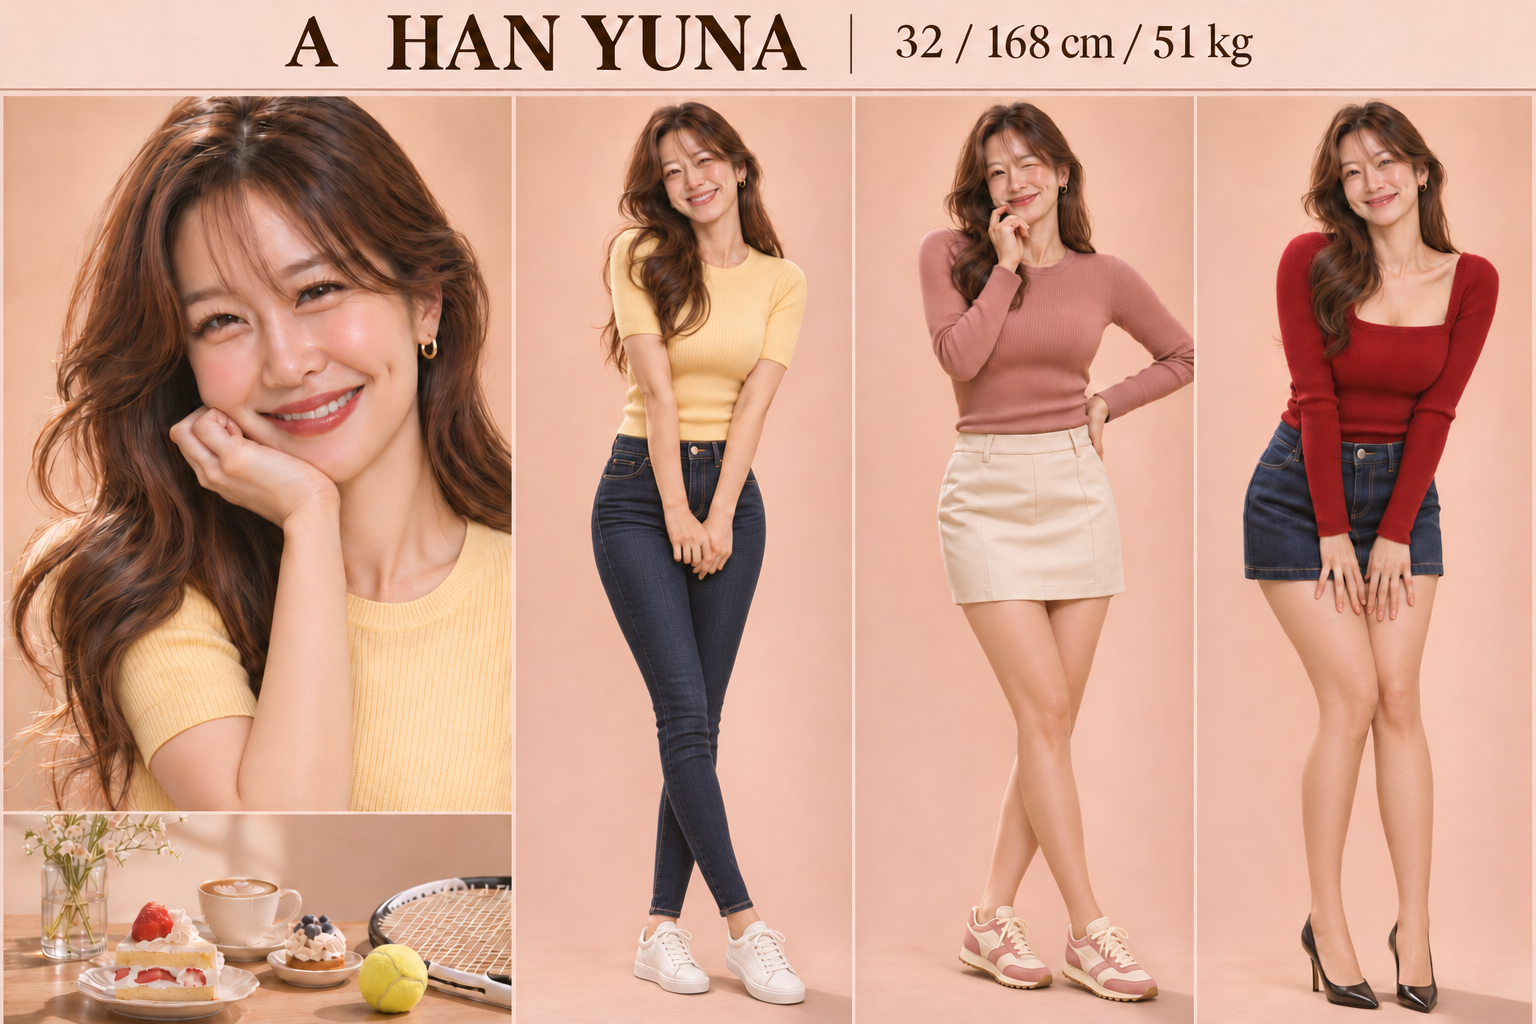
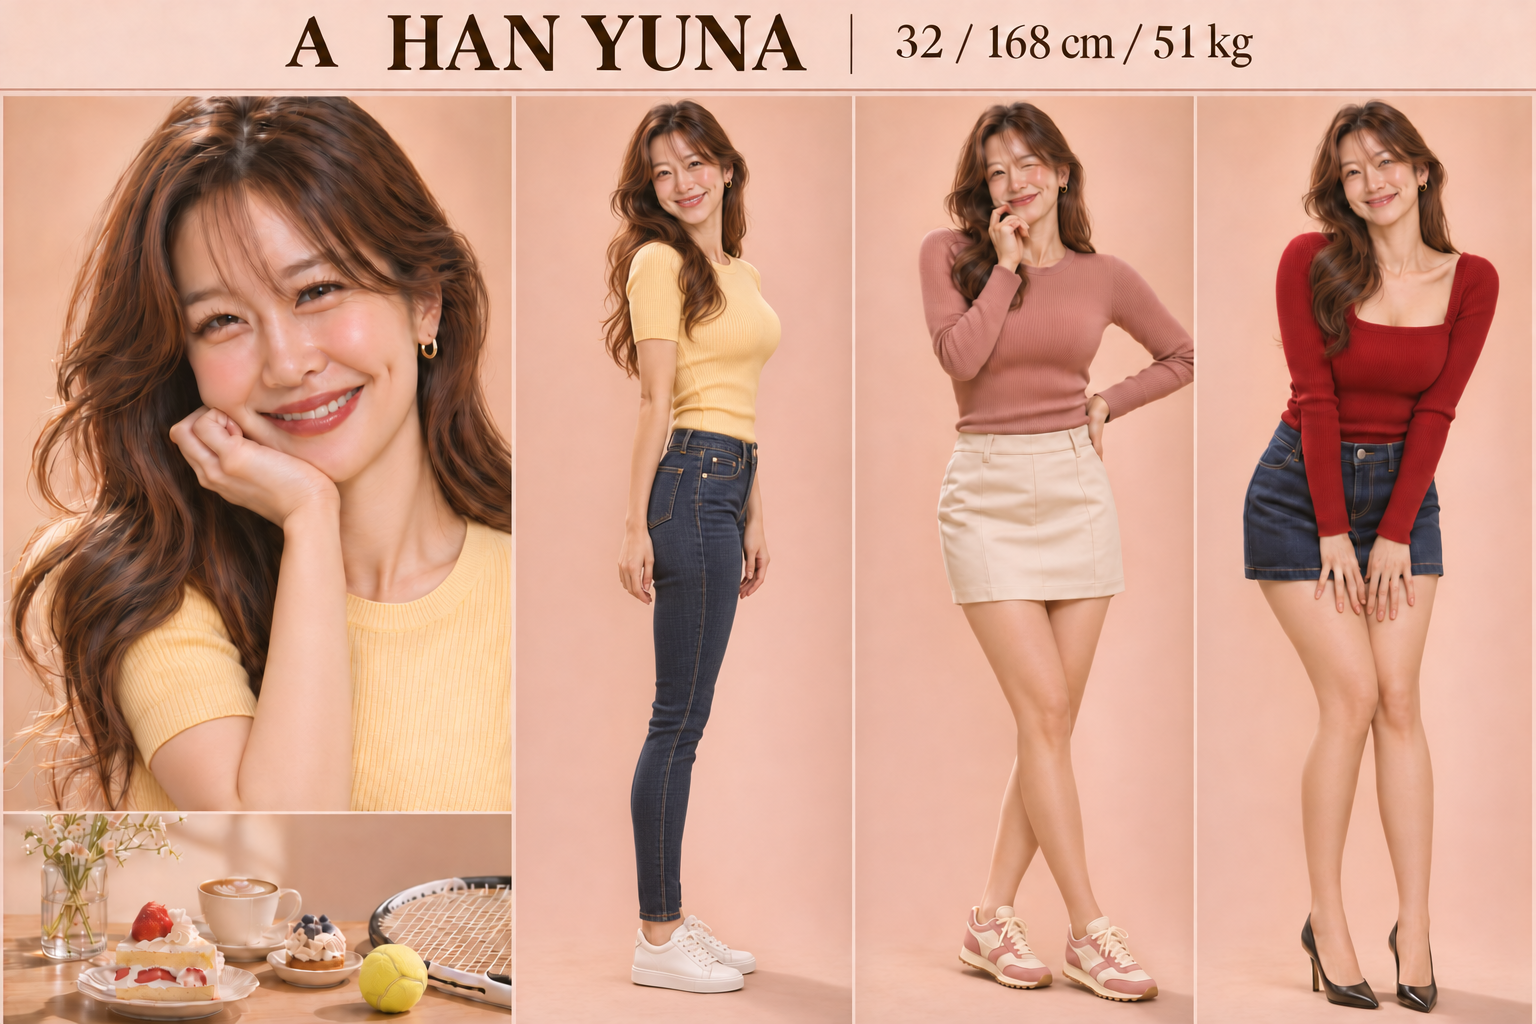
Add selectable Han Yuna indoor looks and denim posing

diff --git a/studio.html b/studio.html
@@ -61,6 +61,8 @@ dialog::backdrop{background:#252a23ba}
 .lookbook{margin-top:7px}
 .lookbook summary{cursor:pointer;width:max-content}
 .lookbook img{display:block;width:100%;max-height:55vh;object-fit:contain;margin-top:8px;border-radius:7px}
+#footwearField{margin-top:9px}
+#footwearField[hidden]{display:none}
 .cover-grid{display:grid;grid-template-columns:minmax(0,1fr) minmax(0,1fr);gap:16px;margin-top:12px}
 .cover-stage{display:grid;place-items:center;background:#292e28;border-radius:10px;padding:10px}
 #coverCanvas{display:block;width:min(100%,31.5vh,270px);height:auto;touch-action:none;cursor:move}
@@ -87,7 +89,14 @@ dialog::backdrop{background:#252a23ba}
         <summary class="plain">캐릭터 룩북 보기</summary>
         <img id="lookbookImage" src="characters/A.png" alt="한유나 얼굴과 전신 착장" loading="lazy">
         <a id="lookbookLink" class="plain" href="characters/A.png">원본 이미지 열기 ↗</a>
+        <details id="indoorLookbook" class="lookbook">
+          <summary class="plain">맨발·양말 룩북</summary>
+          <img src="characters/A-indoor.png" alt="한유나의 맨발과 흰색 발목 양말 전신 착장" loading="lazy">
+        </details>
       </details>
+      <label id="footwearField">한유나 신발 착장
+        <select id="footwear"><option value="">흰색 스니커즈</option><option value="barefoot">맨발</option><option value="socks">흰색 발목 양말만</option></select>
+      </label>
       <div class="divider"></div>
       <div class="section"><h2><span class="index">02</span>상품과 영상 설정</h2><span class="eyebrow">9:16 · 720P</span></div>
       <div class="fields">
@@ -212,6 +221,8 @@ document.querySelectorAll(".host").forEach(button => button.onclick = () => {
   get("lookbookImage").src = imagePath;
   get("lookbookImage").alt = button.querySelector("strong").textContent + " 얼굴과 전신 착장";
   get("lookbookLink").href = imagePath;
+  get("indoorLookbook").hidden = selected !== "A";
+  get("footwearField").hidden = selected !== "A";
   document.querySelectorAll(".host").forEach(item => item.setAttribute("aria-pressed", item === button));
 });
 const cover = get("coverCanvas");
@@ -370,7 +381,8 @@ get("exchangeRate").oninput = updateCosts;
 get("monthlyCount").oninput = updateCosts;
 const data = () => ({id:"studio-product", host:selected, product:get("product").value.trim(),
   facts:get("facts").value.trim(), affiliate_url:get("link").value.trim(),
-  seconds:Number(get("seconds").value), veo:get("tier").value});
+  seconds:Number(get("seconds").value), veo:get("tier").value,
+  ...(selected === "A" && get("footwear").value ? {footwear:get("footwear").value} : {})});
 function validate() {
   if (!get("composer").reportValidity()) return false;
   if (!/^https:\/\/link\.coupang\.com\/[a-zA-Z0-9][^\s]*$/i.test(get("link").value.trim())) {

diff --git a/shorts.py b/shorts.py
@@ -70,6 +70,19 @@ VEO = {
     "fast": ("veo-3.1-fast-generate-preview", 0.10),
     "standard": ("veo-3.1-generate-preview", 0.40),
 }
+INDOOR_LOOKS = {"barefoot": "barefoot", "socks": "plain white ankle socks without shoes"}
+
+
+def host_image(host, footwear=None):
+    name = f"{host}-{footwear}" if footwear else host
+    return DATA_ROOT / "hosts" / f"{name}.png"
+
+
+def check_footwear(host, footwear):
+    if footwear is not None and (host != "A" or footwear not in INDOOR_LOOKS):
+        raise ValueError("맨발과 양말 착장은 한유나에서만 선택할 수 있습니다.")
+
+
 DISCLOSURE = "이 포스팅은 쿠팡 파트너스 활동의 일환으로, 이에 따른 일정액의 수수료를 제공받습니다."
 
 
@@ -133,22 +146,34 @@ class Gemini:
             raise ValueError(f"{model}: 사용 가능한 생성 결과가 없습니다.")
         return parts
 
-    def portrait(self, host):
+    def portrait(self, host, footwear=None):
         profile = HOSTS[host]
         reference = ROOT / "characters" / f"{host}.png"
+        look = profile.look
+        outfit = "first full-body outfit"
+        stance = (
+            "Pose her at a natural three-quarter side angle, face turned toward camera, "
+            "so the jeans' waist-to-hip silhouette is visible in the full-length frame. "
+            if host == "A" else ""
+        )
+        if footwear:
+            reference = ROOT / "characters" / "A-indoor.png"
+            look = profile.look.replace("white low-top leather court sneakers", INDOOR_LOOKS[footwear])
+            outfit = "left full-body outfit" if footwear == "barefoot" else "right full-body outfit"
         art_direction = ""
         if reference.is_file():
             art_direction = (
                 "The attached sheet is the identity reference. Preserve the woman's face, hair, body and "
-                "first full-body outfit. Show a single live-action scene without the sheet layout or text. "
+                f"{outfit}. Show a single live-action scene without the sheet layout or text. "
             )
         parts = self.content("gemini-3.1-flash-image", (
             art_direction +
             f"Photorealistic vertical Korean boutique fashion reel. Foreground: fictional adult Korean woman "
-            f"{profile.name}, {profile.look}, holding a small orange styling pointer. "
+            f"{profile.name}, {look}, holding a small orange styling pointer. "
             "Beside her is a handsome Korean man age 55 in a plain cream mock neck and charcoal trousers. "
             "She introduces middle-aged men's styling. Eye-level full-length shot, warm wood showroom, soft lighting. "
-            "Keep both faces clearly visible and include the woman's shoes. Candid editorial look, no text or logos."
+            "Keep both faces clearly visible and frame the woman head to toe. "
+            f"{stance}Candid editorial look, no text or logos."
         ), {"responseModalities": ["IMAGE"], "responseFormat": {
             "image": {"aspectRatio": "9:16", "imageSize": "1K"}
         }}, version="v1", reference=reference if reference.is_file() else None)
@@ -265,6 +290,8 @@ def normalize(job, base, index):
     if not re.fullmatch(r"[a-zA-Z0-9][a-zA-Z0-9_-]{0,47}", key):
         raise ValueError("id는 영문·숫자로 시작하고 영문·숫자·밑줄·하이픈을 사용하세요.")
     host = job.get("host", "ABC"[index % 3])
+    footwear = job.get("footwear")
+    check_footwear(host, footwear)
     seconds = job.get("seconds", 15)
     tier = job.get("veo", "lite")
     if host not in HOSTS or type(seconds) is not int or not 10 <= seconds <= 20 or tier not in VEO:
@@ -284,6 +311,7 @@ def normalize(job, base, index):
         "id": key, "host": host, "seconds": seconds, "veo": tier, "affiliate_url": link,
         "images": images, "product": clean(job["product"], 55), "facts": clean(job["facts"], 500),
         "script": job.get("script"),
+        **({"footwear": footwear} if footwear else {}),
     }
 
 
@@ -396,7 +424,7 @@ def deliver(directory, job, script, demo):
 def produce(job, client, demo, reference):
     out = DATA_ROOT / "output" / ("preview" if demo else "jobs") / job["id"]
     out.mkdir(parents=True, exist_ok=True)
-    portrait = DATA_ROOT / "hosts" / f"{job['host']}.png"
+    portrait = host_image(job["host"], job.get("footwear"))
     files = job["images"] + [reference if demo else portrait]
     digests = []
     for file in files:
@@ -463,6 +491,7 @@ def main():
     commands = parser.add_subparsers(dest="command", required=True)
     hosts = commands.add_parser("hosts", help="고정 호스트 이미지 최초 생성")
     hosts.add_argument("host", choices=["A", "B", "C", "all"], default="all", nargs="?")
+    hosts.add_argument("--footwear", choices=INDOOR_LOOKS)
     build = commands.add_parser("build", help="상품 목록을 영상으로 제작")
     build.add_argument("manifest", type=Path)
     build.add_argument("--preview", type=Path, metavar="REFERENCE_MP4", help="참고 영상으로 무료 편집 미리보기")
@@ -471,18 +500,21 @@ def main():
     if not all(shutil.which(tool) for tool in ("ffmpeg", "ffprobe")):
         raise ValueError("FFmpeg와 FFprobe를 PATH에 추가하세요.")
     if args.command == "hosts":
+        check_footwear(args.host, args.footwear)
         folder = DATA_ROOT / "hosts"
         folder.mkdir(exist_ok=True)
         selected = HOSTS if args.host == "all" else [args.host]
-        missing = [host for host in selected if not (folder / f"{host}.png").exists()]
+        missing = [host for host in selected if not host_image(host, args.footwear).exists()]
         if missing:
             client = Gemini()
             for host in missing:
-                source = folder / f"{host}.source"
+                target = host_image(host, args.footwear)
+                source = target.with_suffix(".source")
+                temp = target.with_suffix(".tmp.png")
                 if not source.exists():
-                    atomic(source, client.portrait(host))
-                run_ffmpeg(folder, "-i", source.name, "-frames:v", 1, f"{host}.tmp.png")
-                (folder / f"{host}.tmp.png").replace(folder / f"{host}.png")
+                    atomic(source, client.portrait(host, args.footwear))
+                run_ffmpeg(folder, "-i", source.name, "-frames:v", 1, temp.name)
+                temp.replace(target)
                 source.unlink()
                 print(f"호스트 {host} 준비 완료")
         else:
@@ -510,8 +542,10 @@ def main():
         for job in jobs:
             if job["affiliate_url"] == "https://link.coupang.com/REPLACE-ME":
                 raise ValueError(f"{job['id']}: 예제 링크를 발급받은 링크로 교체하세요.")
-            if not (DATA_ROOT / "hosts" / f"{job['host']}.png").is_file():
-                raise ValueError(f"호스트 {job['host']} 이미지가 필요합니다. python shorts.py hosts {job['host']}")
+            footwear = job.get("footwear")
+            if not host_image(job["host"], footwear).is_file():
+                flag = f" --footwear {footwear}" if footwear else ""
+                raise ValueError(f"호스트 이미지가 필요합니다. python shorts.py hosts {job['host']}{flag}")
     client = None if demo else Gemini()
     results = []
     failed = 0

diff --git a/web.py b/web.py
@@ -19,7 +19,7 @@ import shorts
 ROOT = Path(__file__).resolve().parent
 PREVIEW = ROOT / "demo/preview.mp4"
 MEDIA = {"/": ROOT / "studio.html", "/studio.html": ROOT / "studio.html",
-         "/preview.mp4": PREVIEW,
+         "/preview.mp4": PREVIEW, "/characters/A-indoor.png": ROOT / "characters/A-indoor.png",
          **{f"/characters/{host}.png": ROOT / "characters" / f"{host}.png" for host in shorts.HOSTS}}
 RUNS = {}
 LOCK = threading.Lock()
@@ -44,8 +44,10 @@ def run_job(state, job, key, photos):
         env = os.environ.copy()
         env["GEMINI_API_KEY"] = key
         commands = [["build", str(manifest)]]
-        if not (shorts.DATA_ROOT / "hosts" / f'{job["host"]}.png').is_file():
-            commands.insert(0, ["hosts", job["host"]])
+        footwear = job.get("footwear")
+        if not shorts.host_image(job["host"], footwear).is_file():
+            flags = ["--footwear", footwear] if footwear else []
+            commands.insert(0, ["hosts", job["host"], *flags])
         for command in commands:
             with subprocess.Popen(
                 [sys.executable, "-X", "utf8", "-u", str(ROOT / "shorts.py"), *command],
@@ -124,6 +126,10 @@ class Handler(BaseHTTPRequestHandler):
                 raise ValueError("상품 사진을 1~4장 선택하세요.")
             job = {name: payload["job"][name] for name in
                    ("host", "seconds", "veo", "product", "facts", "affiliate_url")}
+            footwear = payload["job"].get("footwear")
+            shorts.check_footwear(job["host"], footwear)
+            if footwear:
+                job["footwear"] = footwear
         except (ValueError, KeyError, TypeError, AttributeError) as error:
             return self.send_json(400, {"error": str(error)})
         token = uuid.uuid4().hex[:16]

diff --git a/characters/image-prompts.md b/characters/image-prompts.md
@@ -6,6 +6,8 @@
 
 Generate ONE landscape 3:2 editorial wardrobe and character design sheet for a fictional adult Korean woman, host A of a Korean men's style short video series. Fashion magazine photo-realistic; all four views of this same woman have exactly the same face, hair and adult body. Character HAN YUNA (한유나), 32 / 168 cm / 51 kg, heart-shaped face, bright warm brown almond eyes, light peach blush and a natural coral lip, one subtle cheek dimple, long chestnut-brown loose waves with wispy side fringe, slender athletic build. Personality conveyed through expression and pose: sexy but cute adult fashion host, bright eye smile and confident playful energy. Wide layout: a clean readable header with exact text "A  HAN YUNA" and "32 / 168 cm / 51 kg". Below header one evenly spaced row: on left a large head-and-shoulders beauty portrait, on right three distinct head-to-toe outfit photos of her all shoes fully in frame. Exact outfits in order: 1 butter-yellow fitted short-sleeve rib knit, high-waisted slim dark indigo jeans, white low-top leather court sneakers; 2 dusty rose fitted knit, cream fitted mini skirt, cream and soft rose retro running sneakers; 3 cherry-red fitted square-neck knit, fitted dark denim mini skirt, black pointed stilettos. Under portrait a small restrained still-life suggesting her hobbies: dessert cafe hopping and tennis. Warm natural window light, warm pale apricot seamless backdrop, subtle panel dividers, realistic adult proportions and natural skin texture, no brands or watermarks, keep all outfits opaque and tasteful. No additional text beyond header and stats.
 
+한유나 실내 착장은 버터 옐로 니트와 인디고 청바지를 입은 전신 두 컷으로 구성했습니다. 왼쪽은 맨발, 오른쪽은 흰색 발목 양말입니다. 얼굴은 카메라를 향하고 몸은 살짝 옆으로 돌려 청바지의 옆선과 힙라인이 보이도록 배치했습니다. 스니커즈 룩의 첫 번째 전신 컷에도 같은 방향의 포즈를 적용했습니다.
+
 ## B 서혜원
 
 Generate ONE landscape 3:2 editorial wardrobe and character design sheet for a fictional adult Korean woman, host B of a Korean men's style short video series. Fashion magazine photo-realistic; all four views of this same woman have exactly the same face, hair and adult body. Character SEO HYEWON (서혜원), 39 / 170 cm / 58 kg, defined oval face, arched brows, sharp dark cat-like eyes, mole under left eye, glossy straight shoulder-length black hair with off-center part, tall long-limbed build. Personality conveyed through expression and pose: glamorous adult fashion host with a knowing smirk, confident and playfully flirtatious. Wide layout: a clean readable header with exact text "B  SEO HYEWON" and "39 / 170 cm / 58 kg". Below header one evenly spaced row: on left a large head-and-shoulders beauty portrait, on right three distinct head-to-toe outfit photos of her all shoes fully in frame. Exact outfits in order: 1 burgundy fitted mock-neck knit, fitted black blazer and knee-length pencil skirt suit, matte charcoal tights, black pointed pumps; 2 fitted charcoal blazer, fitted black scoop-neck knit, matching tapered suit trousers, black pointed stilettos; 3 fitted plum wrap top, matching fitted mini skirt, plum pointed stilettos. Under portrait a small restrained still-life suggesting her hobbies: collecting perfumes and listening to jazz records. Warm natural window light, dusty pale lilac seamless backdrop, subtle panel dividers, realistic adult proportions and natural skin texture, no brands or watermarks, keep all outfits opaque and tasteful. No additional text beyond header and stats.

diff --git a/README.md b/README.md
@@ -12,6 +12,8 @@ Windows에서 상품 목록을 읽어 10~20초 세로 쇼츠를 일괄 제작합
 
 ## 무료 미리보기
 
+한유나를 선택하면 흰색 스니커즈, 맨발, 흰색 발목 양말 중 영상 착장을 고를 수 있습니다. 캐릭터 룩북 안의 **맨발·양말 룩북**에서 두 실내 착장을 확인할 수 있습니다. 각 착장을 처음 제작할 때 기준 이미지가 생성됩니다.
+
 브라우저에서 사용하려면 `studio.html`을 더블클릭합니다. 캐릭터 룩북, 길이와 등급 선택, 비용 계산, 15초 샘플과 상품 목록 저장을 한 화면에서 사용할 수 있습니다.
 
 실제 영상을 만들려면 `Open Studio.cmd`를 더블클릭합니다. 자동으로 열린 브라우저에서 상품 정보와 사진을 입력하고 **쇼츠 제작**을 누르면 됩니다. Gemini API 키는 환경 변수에 설정되어 있거나 화면에서 입력할 수 있습니다. 제작이 끝날 때까지 실행 창을 열어 두면 화면에서 완성 MP4를 재생하고 저장할 수 있습니다.
